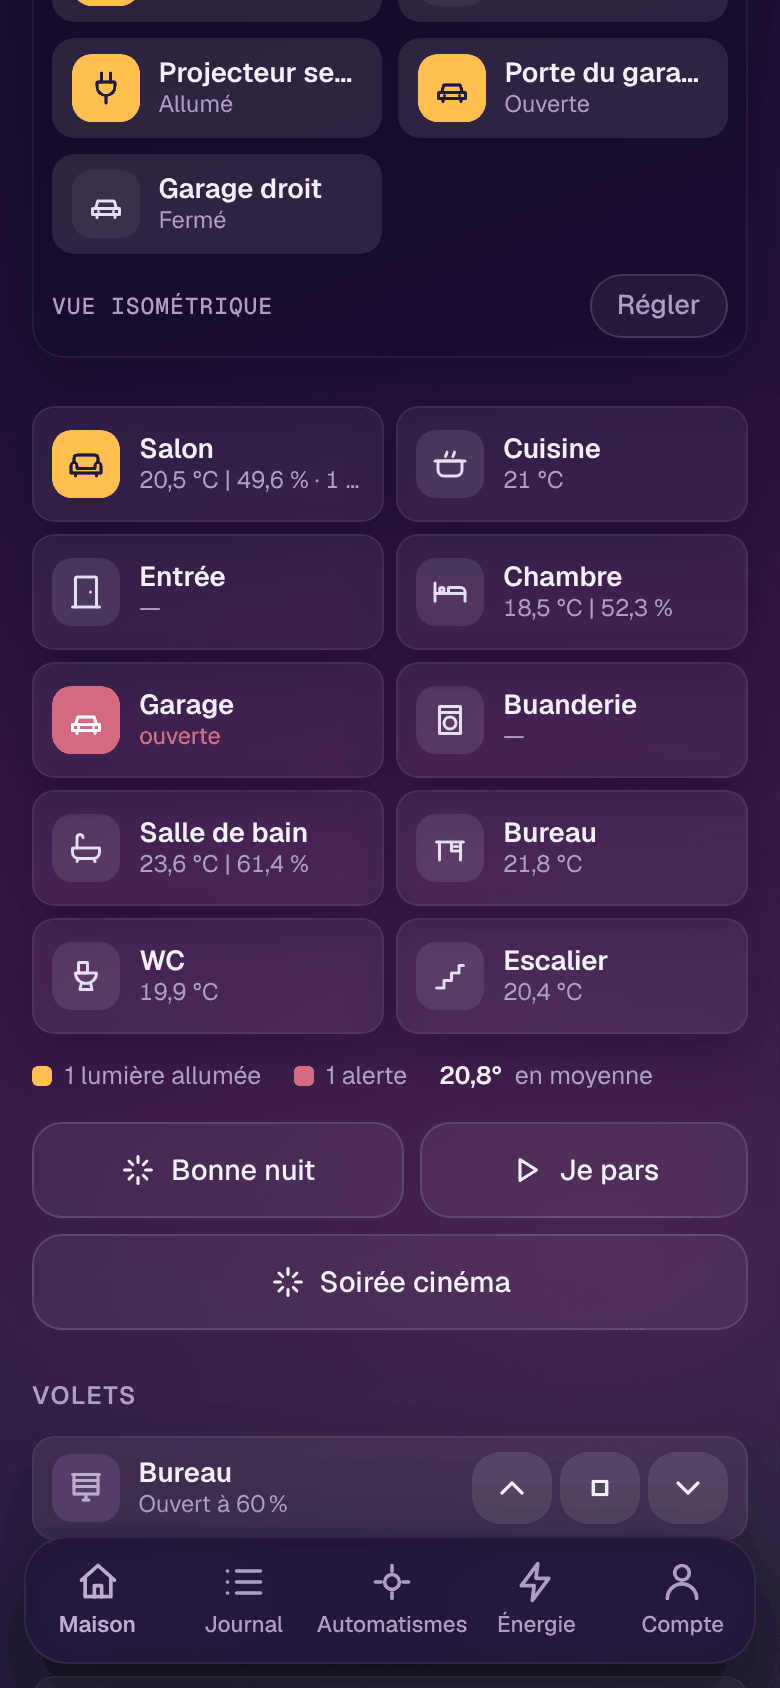
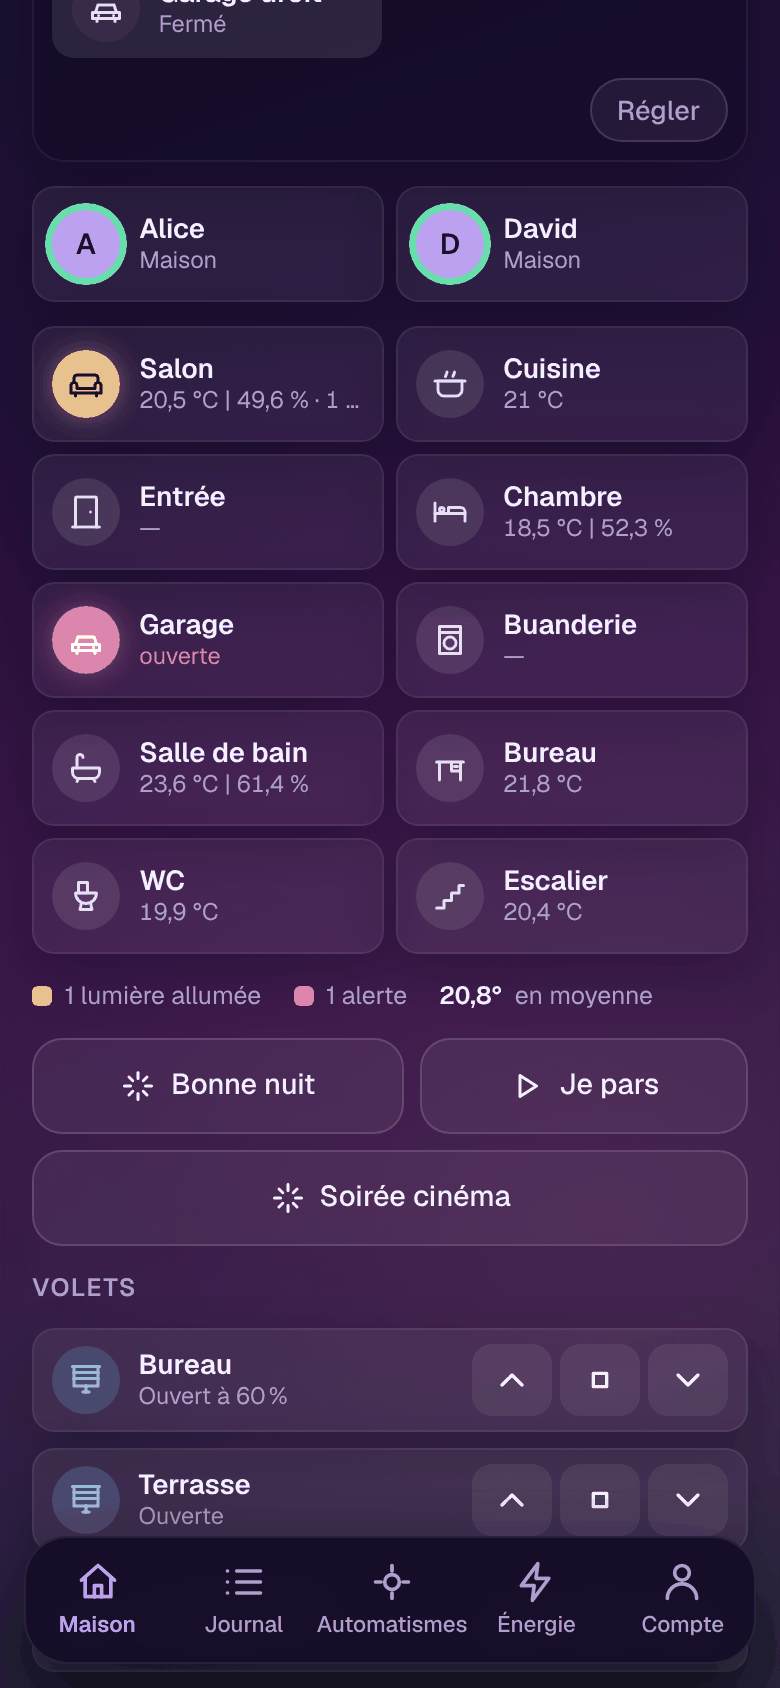
Make the board layout follow the reference dashboards
- one-line header (date, time, "tout est calme, sauf…");
- the dock becomes a left icon rail on wide screens, like Home
  Assistant's sidebar, replacing the top buttons;
- people first in the left column, with their initial and where they
  are;
- covers on the full width, three or four per row, named after their
  room;
- quick buttons stretch across the drawing; round icons that light up
  in the Maquette theme.

Claude-Session: https://claude.ai/code/session_01Dkvx92mMriiViKmoaNEmtb

diff --git a/crates/ha-api/web/style.css b/crates/ha-api/web/style.css
@@ -1526,7 +1526,7 @@ label.check { display: flex; align-items: center; gap: 0.45rem; color: var(--tex
    ====================================================================== */
 
 /* Ce qui n'existe que dans les styles « plan » et la mise en page « tableau ». */
-.house, .gauges, .title-block, .room-hum, .room-line, .board-covers, .house-actions { display: none; }
+.house, .gauges, .title-block, .room-hum, .room-line, .board-covers, .house-actions, .board-people { display: none; }
 
 :root[data-theme="plan"] {
   --bar: #f3f5f9;
@@ -1863,10 +1863,47 @@ label.check { display: flex; align-items: center; gap: 0.45rem; color: var(--tex
    ====================================================================== */
 
 [data-layout="board"] .house { order: -1; }
-/* Un accueil plus court : la place va au dessin. */
-[data-layout="board"] .greeting { font-size: clamp(1.5rem, 1.1rem + 1.2vw, 2.1rem); margin-top: 0.7rem; }
+/* Un en-tête d'une ligne, comme une barre : la place va au tableau. */
+[data-layout="board"] .hero { padding-top: max(0.8rem, env(safe-area-inset-top, 0px)); padding-bottom: 0.4rem; }
+[data-layout="board"] .greeting { font-family: var(--font); font-size: 1.05rem; font-weight: 600; letter-spacing: 0; margin-top: 0.35rem; }
+[data-layout="board"] .greeting a { text-decoration-thickness: 1.5px; text-underline-offset: 3px; }
+[data-layout="board"] .summary { display: none; }
+[data-layout="board"] .layout { gap: 12px; margin-top: 0.6rem; }
+[data-layout="board"] .overview { gap: 12px; }
+
+/* Qui est là : comme les pièces, deux par ligne. */
+[data-layout="board"] .board-people:not([hidden]) { display: grid; grid-template-columns: repeat(2, minmax(0, 1fr)); gap: 6px; }
+.person-chip {
+  display: flex;
+  align-items: center;
+  gap: 0.6rem;
+  min-width: 0;
+  min-height: 58px;
+  padding: 8px 10px;
+  border-radius: calc(var(--radius) * 0.7);
+  background: var(--card);
+  box-shadow: var(--shadow);
+}
+.person-avatar {
+  flex: none;
+  width: 34px;
+  height: 34px;
+  border-radius: 50%;
+  display: grid;
+  place-items: center;
+  font-weight: 700;
+  font-size: 0.9rem;
+  background: var(--card-2);
+  color: var(--text-2);
+}
+.person-chip.home .person-avatar { background: var(--accent); color: var(--accent-ink); box-shadow: 0 0 0 2px var(--card), 0 0 0 3.5px var(--ok); }
+[data-theme|="plan"] .person-chip { border: 1px solid var(--ink-line); box-shadow: none; border-radius: 4px; }
 [data-layout="board"] .board-covers:not([hidden]) { display: grid; gap: 0.75rem; min-width: 0; }
-[data-layout="board"] .house-actions:not([hidden]) { display: grid; grid-template-columns: repeat(auto-fill, minmax(min(100%, 150px), 1fr)); gap: 8px; }
+[data-layout="board"] .house-actions:not([hidden]) { display: grid; grid-template-columns: repeat(auto-fit, minmax(min(100%, 150px), 1fr)); gap: 8px; }
+/* Sous le dessin, seulement « Régler » (pour l'administrateur), discret. */
+[data-layout="board"] .house-caption { justify-content: flex-end; }
+[data-layout="board"] .house-caption > span { display: none; }
+[data-layout="board"] .house-caption:empty, [data-layout="board"] .house-caption:not(:has(button)) { display: none; }
 
 /* Les pièces : une ligne, l'icône, le nom, « 25,1 °C | 49 % ». */
 [data-layout="board"] .plan-card { background: none; box-shadow: none; border: 0; padding: 0; }
@@ -1938,17 +1975,43 @@ label.check { display: flex; align-items: center; gap: 0.45rem; color: var(--tex
 .board-covers > h2 { margin: 0; }
 
 @media (min-width: 1000px) {
-  [data-layout="board"] .hero > * { max-width: 1760px; }
+  /* L'en-tête suit exactement la grille du dessous. */
+  [data-layout="board"] .hero { max-width: 1760px; margin-inline: auto; }
+  [data-layout="board"] .hero > * { max-width: none; }
   [data-layout="board"] .layout {
     max-width: 1760px;
     grid-template-columns: minmax(300px, 30%) minmax(0, 1fr);
-    grid-template-areas: "overview house" "overview covers" "sections sections" "title title";
+    grid-template-areas: "overview house" "covers covers" "sections sections" "title title";
   }
+  /* Les volets sur toute la largeur, trois ou quatre par ligne. */
+  [data-layout="board"] .cover-rows { grid-template-columns: repeat(auto-fill, minmax(330px, 1fr)); }
+  /* La barre de navigation devient un rail d'icônes à gauche, comme dans
+     Home Assistant ; les boutons du haut ne servent plus. */
+  [data-layout="board"] .dock {
+    display: grid;
+    position: fixed;
+    inset: 0 auto 0 0;
+    width: 68px;
+    height: auto;
+    border-radius: 0;
+    grid-template-columns: none !important;
+    grid-auto-rows: 64px;
+    align-content: start;
+    padding-top: 14px;
+    box-shadow: inset -1px 0 0 var(--line);
+  }
+  [data-layout="board"] .dock span { position: absolute; width: 1px; height: 1px; overflow: hidden; clip-path: inset(50%); white-space: nowrap; }
+  [data-layout="board"] .dock :is(a, button) { place-content: center; border-radius: 12px; margin: 0 10px; }
+  [data-layout="board"] .dock :is(a, button):hover { background: var(--card-2); color: var(--text); }
+  [data-layout="board"] .dock .active { background: var(--accent-soft); }
+  [data-layout="board"] :is(.hero, .layout) { padding-left: calc(68px + var(--gutter)); }
+  [data-layout="board"] .actions .ghost { display: none; }
+  [data-theme|="plan"][data-layout="board"] .dock { box-shadow: inset -1.25px 0 0 var(--ink); }
   [data-layout="board"] .overview { grid-area: overview; position: static; }
   [data-layout="board"] .house { grid-area: house; }
   /* Le dessin tient dans la hauteur de l'écran : les boutons et les volets
      restent visibles sans défiler, sur une télé comme sur un ordinateur. */
-  [data-layout="board"] #house-stage { width: min(100%, calc((100dvh - 330px) * var(--ratio, 1.35))); justify-self: center; }
+  [data-layout="board"] #house-stage { width: min(100%, calc((100dvh - 290px) * var(--ratio, 1.35))); justify-self: center; }
   [data-layout="board"] .board-covers { grid-area: covers; }
   [data-layout="board"] .sections { grid-area: sections; }
   [data-layout="board"] .title-block { grid-area: title; }
@@ -2023,6 +2086,15 @@ label.check { display: flex; align-items: center; gap: 0.45rem; color: var(--tex
 [data-theme="maquette"] .house-tag { border-color: rgb(255 255 255 / 0.5); background: rgb(26 16 48 / 0.82); }
 [data-theme="maquette"] .tile.light.on { background: linear-gradient(140deg, rgb(255 176 64 / 0.24), rgb(255 176 64 / 0.08)); }
 [data-theme="maquette"] .scene.on { background: var(--accent); color: var(--accent-ink); }
+/* Des icônes rondes, qui s'allument en couleur (comme sur les maquettes). */
+[data-theme="maquette"] :is(.room-icon, .house-action-icon, .icon) { border-radius: 50%; }
+[data-theme="maquette"] .room.lit .room-icon,
+[data-theme="maquette"] .house-action.on .house-action-icon { background: radial-gradient(circle at 35% 30%, #ffd57a, #f59f1a); color: #3b2405; box-shadow: 0 0 14px rgb(255 176 64 / 0.45); }
+[data-theme="maquette"] .cover-row.on .house-action-icon { background: rgb(120 200 255 / 0.18); color: #8fd3ff; }
+[data-theme="maquette"] .room.alert .room-icon { background: radial-gradient(circle at 35% 30%, #ff8f9a, #e2445a); box-shadow: 0 0 14px rgb(255 107 122 / 0.4); }
+[data-theme="maquette"] .gauge { min-height: 30px; font-size: 0.78rem; }
+[data-theme="maquette"] .cover-row-buttons .round { background: rgb(255 255 255 / 0.07); border-radius: 10px; }
+[data-theme="maquette"] .dock { background: rgb(20 12 38 / 0.94); }
 
 /* ---------- Réglage du dessin ---------- */
 

diff --git a/crates/ha-api/web/house.js b/crates/ha-api/web/house.js
@@ -344,10 +344,19 @@ function renderActions() {
 
 // ---------------------------------------------------------------- Volets en lignes
 
+/** Le nom d'un volet dans sa ligne : celui de sa pièce (« Salon »), ou
+ *  « Salon · Baie » s'il y en a plusieurs dans la pièce. */
+function coverTitle(state) {
+  const area = areas.find((a) => a.entities.some((e) => e.entity_id === state.entity_id));
+  if (!area) return nameOf(state);
+  const covers = area.entities.filter((e) => e.entity_id.startsWith("cover."));
+  return covers.length > 1 ? `${area.name} · ${nameOf(state)}` : area.name;
+}
+
 function coverRow(state) {
   const buttons = [["open_cover", ICONS.up, "Ouvrir"], ["stop_cover", ICONS.stop, "Arrêter"], ["close_cover", ICONS.down, "Fermer"]]
     .map(([service, icon, label]) => {
-      const button = el("button", { type: "button", class: "round", "aria-label": `${label} ${nameOf(state)}` }, svgIcon(icon));
+      const button = el("button", { type: "button", class: "round", "aria-label": `${label} ${coverTitle(state)}` }, svgIcon(icon));
       button.addEventListener("click", () => {
         row.classList.add("pending");
         setTimeout(() => row.classList.remove("pending"), 5000);
@@ -357,7 +366,7 @@ function coverRow(state) {
     });
   const row = el("div", { class: `cover-row${state.state === "open" ? " on" : ""}` },
     el("span", { class: "house-action-icon" }, svgIcon(ICONS.blinds)),
-    el("span", { class: "house-action-text" }, el("b", { text: nameOf(state) }), el("span", { text: coverText(state) })),
+    el("span", { class: "house-action-text" }, el("b", { text: coverTitle(state) }), el("span", { text: coverText(state) })),
     canControl(state) ? el("span", { class: "cover-row-buttons" }, ...buttons) : "");
   return row;
 }
@@ -374,6 +383,26 @@ function renderCovers() {
   box.replaceChildren(el("h2", { text: "Volets" }), el("div", { class: "cover-rows" }, ...covers.map(coverRow)));
 }
 
+// ---------------------------------------------------------------- Personnes
+// En tête de la colonne des pièces : chacun, avec l'initiale de son nom et où
+// il est (« Maison », « Absent », ou le nom de la zone).
+
+function renderPeople() {
+  const box = $("#board-people");
+  const people = [...entities.values()]
+    .filter((s) => domainOf(s) === "person")
+    .sort((a, b) => nameOf(a).localeCompare(nameOf(b), "fr"));
+  box.hidden = people.length === 0;
+  box.replaceChildren(...people.map((state) => {
+    const home = state.state === "home";
+    const where = home ? "Maison" : state.state === "not_home" ? "Absent" : lookup(STATUS_LABELS, state.state) ?? state.state;
+    const name = nameOf(state);
+    return el("div", { class: `person-chip${home ? " home" : ""}` },
+      el("span", { class: "person-avatar", text: name.charAt(0).toUpperCase(), "aria-hidden": "true" }),
+      el("span", { class: "house-action-text" }, el("b", { text: name }), el("span", { text: where })));
+  }));
+}
+
 /** Appelé par app.js à chaque changement (au plus une fois par image). */
 function renderHouse() {
   const board = isBoard();
@@ -381,6 +410,7 @@ function renderHouse() {
   $("#title-block").hidden = !isPlan();
   if (!board) {
     $("#board-covers").hidden = true;
+    $("#board-people").hidden = true;
     return;
   }
   if (house.loading === null && token.get()) loadHouse();
@@ -388,6 +418,7 @@ function renderHouse() {
   renderGauges();
   renderActions();
   renderCovers();
+  renderPeople();
   if (isPlan()) renderTitleBlock();
 }
 

diff --git a/crates/ha-api/web/index.html b/crates/ha-api/web/index.html
@@ -66,6 +66,8 @@
     </header>
     <div class="layout">
       <aside class="overview" aria-label="Vue d'ensemble">
+        <!-- Mise en page « tableau » : qui est là (house.js) -->
+        <div id="board-people" class="board-people" aria-label="Personnes" hidden></div>
         <section id="plan" class="plan-card" aria-label="Plan de la maison" hidden></section>
         <nav id="scenes" class="scenes" aria-label="Scènes et scripts" hidden></nav>
       </aside>

diff --git a/docs/maquette.md b/docs/maquette.md
@@ -7,12 +7,19 @@
 Reprendre la mise en page des tableaux de bord isométriques de Home Assistant (merci à
 [domo-blog](https://www.domo-blog.fr/tableau-de-bord-home-assistant-3d-isometrique/)) :
 
-- **à gauche**, les pièces en petites tuiles : l'icône, le nom, « 23,6 °C | 61,4 % » ;
+- **un rail d'icônes** à gauche (accueil, journal, automatisations, énergie, compte), comme dans
+  Home Assistant, et un en-tête d'une seule ligne : la date, l'heure, et « tout est calme, sauf… » ;
+- **à gauche**, qui est là (« Alice · Maison »), puis les pièces en petites tuiles : l'icône, le
+  nom, « 23,6 °C | 61,4 % » ;
 - **au centre**, la maquette de la maison, avec ses calques et ses valeurs
   ([étape 36](plan-architecte.md)) ;
 - **au-dessus**, les repères : dehors, dedans, puissance, lumières, présents ;
 - **en dessous**, des **boutons rapides** : le porche, le parking, les portes de garage…
-- **puis les volets en lignes**, avec ▲ ■ ▼, et tous les autres appareils comme avant.
+- **puis les volets**, sur toute la largeur, trois ou quatre par ligne, avec ▲ ■ ▼, et tous les
+  autres appareils comme avant.
+
+Les icônes sont rondes et s'allument en couleur : dorée pour une lumière allumée ou une porte
+ouverte, rouge pour une alerte.
 
 ## Choisir l'apparence
 
@@ -41,8 +48,9 @@ une porte de garage.
 
 ## Les volets en lignes
 
-Tous les volets apparaissent sous le dessin, une ligne chacun, avec la position et ▲ ■ ▼. Les
-portes de garage, les portails et les volets déjà en boutons rapides n'y sont pas.
+Tous les volets apparaissent sous le dessin, une ligne chacun, avec la position et ▲ ■ ▼. Chaque
+ligne porte le nom de sa pièce (« Salon »), ou « Salon · Baie » s'il y a plusieurs volets dans la
+pièce. Les portes de garage, les portails et les volets déjà en boutons rapides n'y sont pas.
 
 ## Sur téléphone
 
@@ -54,7 +62,8 @@ volets. Les repères défilent sur une seule ligne.
 ## Sur une télé
 
 Le dessin tient dans la hauteur de l'écran, quelles que soient ses proportions. Ses boutons
-restent donc visibles sans faire défiler. La salutation est plus petite pour lui laisser la place.
+restent donc visibles sans faire défiler. L'en-tête tient sur une ligne, et la barre du bas du
+téléphone devient un rail d'icônes à gauche, pour lui laisser la place.
 
 ## Sécurité
 
